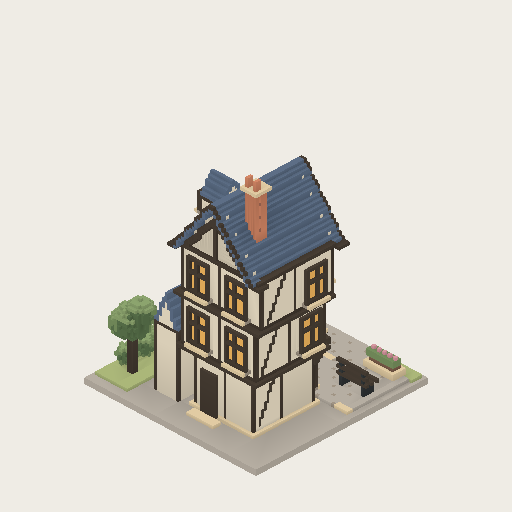
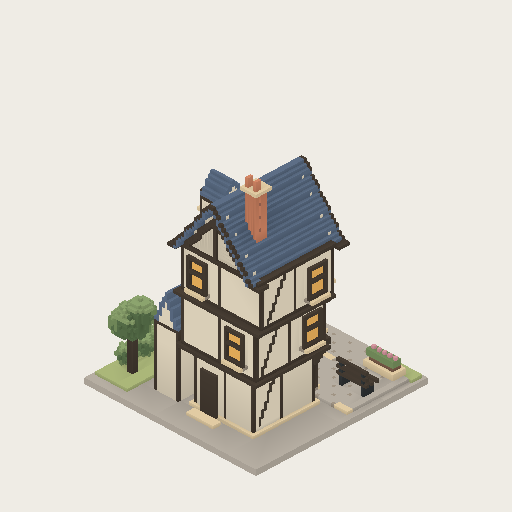
refine(ministry): reduce window density and restore plaster wall space

Changed region(s): [[0.3438, 0.5, 0.5, 0.75], [0.5625, 0.5312, 0.6562, 0.7188], [0.375, 0.375, 0.4062, 0.4375]]

diff --git a/src/generators/ministryOfMagic.js b/src/generators/ministryOfMagic.js
@@ -3,7 +3,7 @@ import { createVoxelMassingLab, VOXEL_SIZE, VOXEL_WRITE_PRIORITIES } from "./vox
 
 export const MINISTRY_ASSET_ID = "ministry-tudor-001";
 export const MINISTRY_PARCEL_SIZE = 8;
-export const MINISTRY_ASSET_REVISION = 4;
+export const MINISTRY_ASSET_REVISION = 5;
 // Material roles match the existing civic buildings. Metal is an accent, not
 // a substitute for slate roofing or glazing; no asset-specific RGB palette.
 export const MINISTRY_MATERIALS = Object.freeze({
@@ -20,7 +20,7 @@ export function ministryOfMagicSpec() {
     baseYVoxels: base, heightVoxels: height, cap, materials, facade
   });
   const spec = createUrbanMassingSpec({
-    id: MINISTRY_ASSET_ID, seed: "ministry-tudor-voxel-v4", widthCells: 2, depthCells: 2,
+    id: MINISTRY_ASSET_ID, seed: "ministry-tudor-voxel-v5", widthCells: 2, depthCells: 2,
     masses: [
       mass("reception", -9, -10, 22, 23, 0, 18),
       mass("council", -9, -10, 28, 26, 18, 17),
@@ -114,18 +114,20 @@ export function addMinistryVoxelDetails(buffer) {
     line("timber",[left,bottom+1,back+2],[left,top-1,back+8]);
     line("timber",[right,bottom+1,back+2],[right,top-1,back+8]);
   }
-  window(-20,23,3,6,9);
+  window(-20,23,3,5,8);
   // One planted sill provides a small lived-in detail without repeating a
   // flower box on every window or hiding the structural window rhythm.
   box("timber",-20,20,5,6,1,2);
   box("foliage",-19,21,5,4,1,2);
   voxel("blossomPink",-19,22,6); voxel("blossomPink",-16,22,6);
   voxel("foliage",-18,19,6);
-  window(-22,39,4,7,9); window(-6,39,4,7,9);
+  // One principal casement; secondary openings stay narrow and leave plaster
+  // visible. Side and rear elevations get one opening per storey, not pairs.
+  window(-22,39,4,7,9); window(-5,40,4,5,8);
   for(const y of [23,39]) {
-    window(5,y,-17,6,9,"right"); window(5,y,-5,5,9,"right");
-    window(y===23?-24:-26,y,-7,6,9,"left");
-    window(-20,y,-24,6,9,"back"); window(-6,y,-24,6,9,"back");
+    window(5,y+1,-5,5,8,"right");
+    window(y===23?-24:-26,y+1,-6,5,8,"left");
+    window(y===23?-19:-5,y+1,-24,5,8,"back");
   }
   window(-18,5,2,4,8);
   box("timber",-11,1,2,8,14,1); box("timber",-10,2,3,6,12,1);
@@ -158,7 +160,7 @@ export function addMinistryVoxelDetails(buffer) {
     line("timber",[x,0,30],[x,17,12]); line("timber",[x,7,30],[x,24,12]);
     for(let i=0;i<9;i+=2) box("timber",x,2+i*2,29-i*2,1,7,1);
   }
-  window(15,7,-15,6,8,"right");
+  window(15,8,-14,4,8,"right");
   // Read the actual public-grammar roof heightfield so the timber edge cannot
   // drift away from its stepped roof. The gable infill sits one voxel behind.
   const roofHeights = new Map();
@@ -178,8 +180,8 @@ export function addMinistryVoxelDetails(buffer) {
     box("timber",-10,52,z,1,(roofHeights.get(-10)??69)-52,1);
     line("timber",[-21,52,z],[-10,64,z]); line("timber",[1,52,z],[-10,64,z]);
   }
-  window(-13,55,5,6,7);
-  window(4,58,-15,5,4,"right");
+  // The dormer lights the attic; the front gable remains solid timber/plaster.
+  window(4,58,-14,4,4,"right");
   // Compact crest and stepped eave returns, with no out-of-grid geometry.
   for(const z of [-26,4]) {
     box("timber",-27,50,z,3,1,4); box("timber",4,50,z,3,1,4);
@@ -220,7 +222,7 @@ export function createMinistryOfMagic({ cellWorldSize = 4, nightLighting = 0 } =
     nightLighting, voxelDetailPass: addMinistryVoxelDetails });
   root.name = "MinistryOfMagic";
   root.scale.setScalar(cellWorldSize / 4);
-  root.userData.contract.sourceOfTruth = "UrbanMassingSpec + ministry-tudor-v4 authored voxel detail pass";
+  root.userData.contract.sourceOfTruth = "UrbanMassingSpec + ministry-tudor-v5 authored voxel detail pass";
   root.userData = { ...root.userData, assetId: MINISTRY_ASSET_ID, assetRevision: MINISTRY_ASSET_REVISION,
     representation: "special-landmark-voxel", sphereProjectionRoot: true,
     footprint: "2x2", entrance: "north", authoredParcelSize: 8, voxelSize: VOXEL_SIZE };
